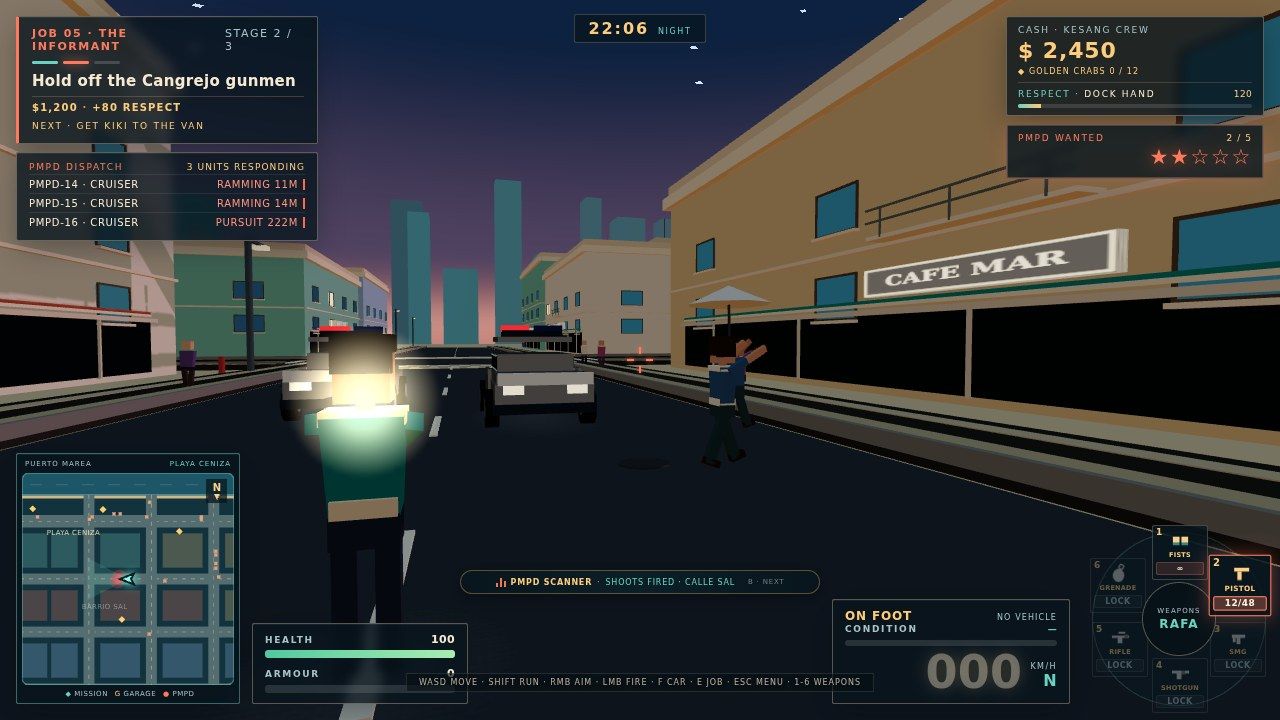
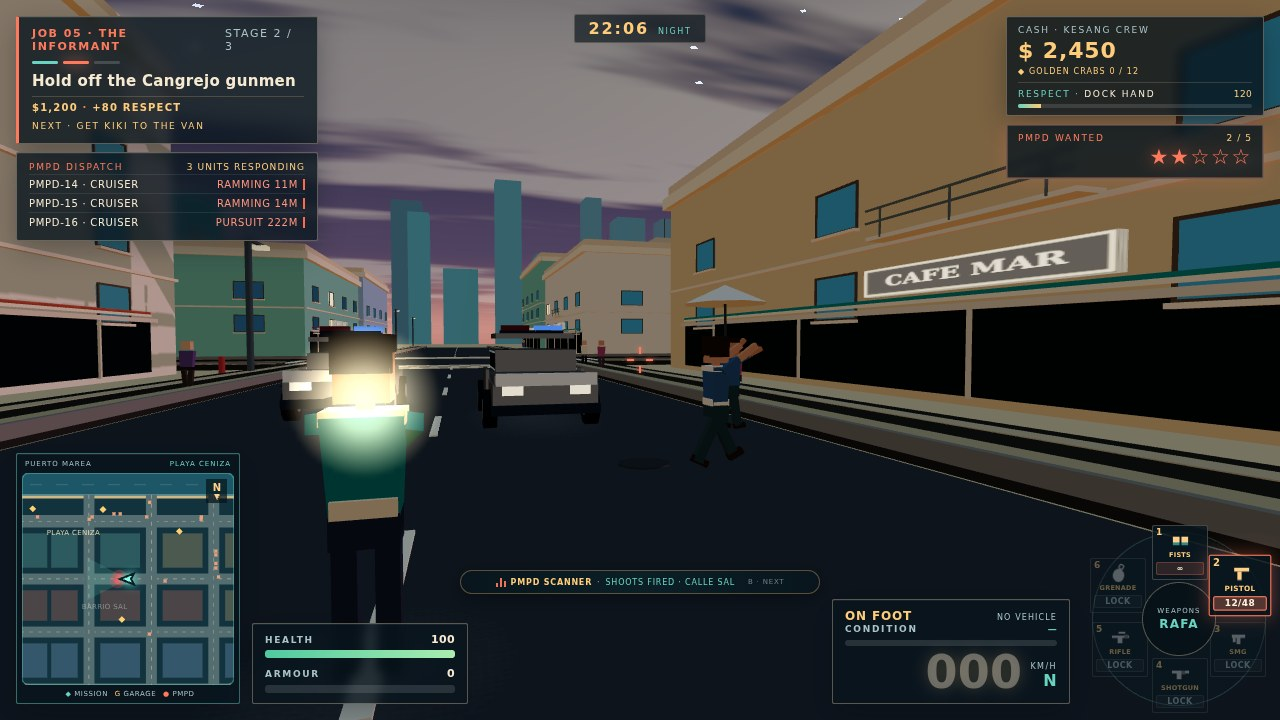
shot: round 4 cover framing, cloud deck sky and translucent pause menu

diff --git a/game/src/ui/screenshots.js b/game/src/ui/screenshots.js
@@ -307,17 +307,78 @@ function lockCamera(game, blended, shotSpeed = null, cameraOpts = null) {
   game.engine.snapCamera(game.player, cameraOpts ?? {});
 }
 
+function worldAtNdc(camera, ndcX, ndcY, distance) {
+  const direction = new THREE.Vector3(ndcX, ndcY, 0.5).unproject(camera).sub(camera.position).normalize();
+  return camera.position.clone().addScaledVector(direction, distance);
+}
+
+// The cover is the graded artifact, so the hero camera is fitted rather than guessed:
+// it starts on the tuned three-quarter boom and slides along it until the car covers
+// a readable share of the frame width.
+function fitHeroCamera(game, hero, forward, options = {}) {
+  const { left } = frameBasis(hero.heading);
+  const lateral = options.lateral ?? 3.0;
+  const height = options.height ?? 1.8;
+  const fov = options.fov ?? 34;
+  let distance = options.distance ?? 10;
+  let pose = null;
+  for (let step = 0; step < 5; step += 1) {
+    const position = hero.position.clone().addScaledVector(forward, -distance).addScaledVector(left, lateral).setY(height);
+    const lookAt = hero.position.clone().addScaledVector(forward, 16).addScaledVector(left, -2).setY(1.4);
+    const probe = game.engine.camera.clone();
+    probe.position.copy(position);
+    probe.lookAt(lookAt);
+    probe.fov = fov;
+    probe.updateProjectionMatrix();
+    probe.updateMatrixWorld(true);
+    const span = projectedSpan(probe, vehicleCorners(hero));
+    pose = {
+      position,
+      lookAt,
+      fov,
+      report: {
+        distance,
+        lateral,
+        height,
+        fov,
+        heroWidth: span ? Number(span.width.toFixed(3)) : null,
+        heroBounds: span ? {
+          minX: Number(span.minX.toFixed(2)),
+          maxX: Number(span.maxX.toFixed(2)),
+          minY: Number(span.minY.toFixed(2)),
+          maxY: Number(span.maxY.toFixed(2)),
+        } : null,
+      },
+    };
+    if (span && span.width > 0.40) { distance = Math.min(12.5, distance + 0.5); continue; }
+    if (!span || span.width < 0.22) { distance = Math.max(8, distance - 0.5); continue; }
+    break;
+  }
+  return pose;
+}
+
 async function stageChase(game) {
-  game.timeOfDay = 17.6;
+  game.timeOfDay = 17.95;
   game.engine.setTimeOfDay(game.timeOfDay);
+
+  // Keep the key light just above the waterline so the frame holds a long warm band.
+  const elevation = THREE.MathUtils.degToRad(9);
+  const azimuth = -2.72;
+  const horizontal = Math.sqrt(Math.max(0.001, 1 - Math.sin(elevation) * Math.sin(elevation)));
+  game.engine.sunDirection = new THREE.Vector3(Math.cos(azimuth) * horizontal, Math.sin(elevation), Math.sin(azimuth) * horizontal).normalize();
+  game.engine.skyUniforms.sunDirection.value.copy(game.engine.sunDirection);
+  game.engine.skyUniforms.night.value = 0;
+
+  // Warm sky bounce, so the shaded flank of the hero still reads on the dark asphalt.
+  game.engine.hemi.intensity = 0.5;
+  game.engine.hemi.color.set('#ffd3a6');
+  game.engine.hemi.groundColor.set('#6b6250');
+  game.engine.renderer.toneMappingExposure = 1.02;
 
   const hero = game.heroVehicle;
   const heading = Math.PI / 2;
   const { forward, left } = frameBasis(heading);
-  const heroPos = new THREE.Vector3(-74, 0, -22);
-  const heroRoof = 1.5 + 0.6 * (hero?.spec?.cabin ?? 0.6);
-  const wheelbase = (hero?.spec?.length ?? 4.5) * 0.32;
-  const rearAxle = heroPos.clone().addScaledVector(forward, -wheelbase);
+  const heroPos = new THREE.Vector3(-74, 0, -21.3);
 
   game.shotSpeed = 0;
   if (hero) {
@@ -346,9 +407,11 @@ async function stageChase(game) {
   game.hud.setRadio('PMPD SCANNER', 'DISPATCH 10-42');
   await settle(game, 60);
 
+  // Freeze the pursuit: every unit is placed by hand after this point.
   game.police.dispatch = () => {};
   game.police.cooldowns.roadblock = 9999;
-  clearTrafficNear(game, heroPos, 36);
+  game.police.update = () => {};
+  clearTrafficNear(game, heroPos, 46);
 
   if (hero) {
     hero.position.copy(heroPos);
@@ -358,9 +421,6 @@ async function stageChase(game) {
     hero.mesh.position.copy(hero.position);
     hero.mesh.rotation.y = hero.heading;
     game.player.position.copy(hero.position);
-  }
-
-  if (hero) {
     const baseUpdate = hero.update.bind(hero);
     hero.update = (dt) => {
       baseUpdate(dt);
@@ -368,15 +428,15 @@ async function stageChase(game) {
     };
   }
 
-  const cruisers = game.police.units.filter((u) => u.kind === 'CRUISER' && u.vehicle);
+  const cruisers = game.police.units.filter((unit) => unit.kind === 'CRUISER' && unit.vehicle);
   cruisers.forEach((unit, index) => {
     const vehicle = unit.vehicle;
     if (!vehicle) return;
     if (index < 2) {
-      const behind = 3.5 + index * 0.8;
-      const leftOffset = index === 0 ? 4 : -4;
-      vehicle.position.copy(heroPos).addScaledVector(forward, -behind).addScaledVector(left, leftOffset);
-      vehicle.heading = Math.atan2(heroPos.x - vehicle.position.x, heroPos.z - vehicle.position.z);
+      const ahead = index === 0 ? 9.5 : 13.2;
+      const side = index === 0 ? 3.6 : -5.0;
+      vehicle.position.copy(heroPos).addScaledVector(forward, ahead).addScaledVector(left, side);
+      vehicle.heading = heading + (index === 0 ? 0.55 : -0.2);
       vehicle.speed = 0;
       vehicle.maxSpeed = 0;
       vehicle.parked = false;
@@ -386,51 +446,68 @@ async function stageChase(game) {
       unit.position = vehicle.position;
       unit.tactic = 'CHASE';
     } else {
-      vehicle.position.set(heroPos.x - 210 - index * 12, 0, heroPos.z + 8);
+      vehicle.position.set(heroPos.x + 210 + index * 12, 0, heroPos.z + 8);
       vehicle.speed = 0;
       vehicle.maxSpeed = 0;
       vehicle.mesh.position.copy(vehicle.position);
       unit.position = vehicle.position;
       unit.tactic = 'STANDBY';
     }
+    vehicle.update = () => {};
   });
 
-  const heli = game.police.units.find((u) => u.kind === 'HELICOPTER' && !u.dead);
+  const heli = game.police.units.find((unit) => unit.kind === 'HELICOPTER' && !unit.dead);
   if (heli) {
     heli.kind = 'STATIC';
-    heli.mesh.position.copy(heroPos).addScaledVector(forward, 18).addScaledVector(left, -12).setY(18);
-    heli.position = heli.mesh.position;
-    if (heli.spotlight) {
-      heli.spotlight.position.copy(heli.mesh.position);
-      heli.spotlight.target.position.copy(heroPos).addScaledVector(forward, 25).setY(0.5);
-      heli.spotlight.intensity = 42;
-    }
+    heli.update = () => {};
+    if (heli.spotlight) heli.spotlight.intensity = 0;
     if (heli.spotlightCone) heli.spotlightCone.visible = false;
-    ensureGroundSpotlightPool(game, heroPos.clone().addScaledVector(forward, 25).setY(0.03));
   }
 
-  const cameraPos = heroPos.clone().addScaledVector(forward, -11).addScaledVector(left, 1.4).setY(1.55);
-  const lookAt = heroPos.clone().setY(heroRoof + 2.47);
+  const pose = hero ? fitHeroCamera(game, hero, forward) : null;
   game.shotSpeed = 0;
   game.shotCamera = null;
   lockCamera(game, true, 0, {});
-  pinCamera(game, cameraPos, lookAt, 80);
-  verifyShotCamera(game, cameraPos, hero ? vehicleCorners(hero) : [], 'chase');
+  if (pose) pinCamera(game, pose.position, pose.lookAt, pose.fov);
+  game.engine.camera.updateMatrixWorld(true);
 
-  const carSpan = projectedSpan(game.engine.camera, hero ? vehicleCorners(hero) : []);
-  const nearby = countNearbyObjects(game, cameraPos, 6);
-  const wallFraction = largestBuildingFaceFraction(game.engine.camera);
+  if (heli) {
+    const heliPos = worldAtNdc(game.engine.camera, -0.36, 0.42, 42);
+    heli.mesh.position.copy(heliPos);
+    heli.position.copy(heliPos);
+    if (heli.spotlight) {
+      heli.spotlight.position.copy(heliPos);
+      heli.spotlight.target.position.copy(heroPos).setY(0.5);
+      heli.spotlight.target.updateMatrixWorld();
+    }
+  }
+
+  const camera = game.engine.camera;
+  const cameraPos = camera.position;
+  const heroSpan = hero ? projectedSpan(camera, vehicleCorners(hero)) : null;
+  const cruiserSpans = cruisers.slice(0, 2).filter((unit) => unit.vehicle).map((unit) => projectedSpan(camera, vehicleCorners(unit.vehicle)));
+  const heliSpan = heli ? projectedSpan(camera, meshSilhouettePoints(heli.mesh)) : null;
+  const nearestToCamera = Math.min(...game.traffic.vehicles
+    .filter((vehicle) => vehicle !== hero)
+    .map((vehicle) => cameraPos.distanceTo(vehicle.position)));
+  const wallFraction = largestBuildingFaceFraction(camera);
   const report = {
-    cameraToCar: Number(cameraPos.distanceTo(heroPos).toFixed(2)),
-    cameraToRearAxle: Number(cameraPos.distanceTo(rearAxle).toFixed(2)),
-    nearby,
+    camera: cameraPos.toArray().map((value) => Number(value.toFixed(2))),
+    fit: pose ? pose.report : null,
+    heroWidthOfFrame: heroSpan ? Number(heroSpan.width.toFixed(3)) : null,
+    hero: heroSpan ? { minX: Number(heroSpan.minX.toFixed(2)), maxX: Number(heroSpan.maxX.toFixed(2)), minY: Number(heroSpan.minY.toFixed(2)), maxY: Number(heroSpan.maxY.toFixed(2)) } : null,
+    cruisers: cruiserSpans.map((span) => (span ? { minX: Number(span.minX.toFixed(2)), maxX: Number(span.maxX.toFixed(2)), minY: Number(span.minY.toFixed(2)), maxY: Number(span.maxY.toFixed(2)) } : null)),
+    heli: heliSpan ? { minX: Number(heliSpan.minX.toFixed(2)), maxX: Number(heliSpan.maxX.toFixed(2)), minY: Number(heliSpan.minY.toFixed(2)), maxY: Number(heliSpan.maxY.toFixed(2)) } : null,
+    nearestVehicleToCamera: Number(nearestToCamera.toFixed(2)),
     largestBuildingFaceOfFrame: Number(wallFraction.toFixed(3)),
-    carFrameBounds: carSpan ? { minX: Number(carSpan.minX.toFixed(2)), maxX: Number(carSpan.maxX.toFixed(2)), minY: Number(carSpan.minY.toFixed(2)), maxY: Number(carSpan.maxY.toFixed(2)) } : null,
   };
   console.info('[shot:chase]', JSON.stringify(report));
-  console.assert(nearby.parked === 0 && nearby.props === 0 && nearby.moving === 0, 'chase camera must be clear of parked vehicles and props within 6m');
-  console.assert(wallFraction < 0.45, 'chase largest building face must stay under 45% of frame width');
-  console.assert(carSpan && carSpan.minX > -1 && carSpan.maxX < 1 && carSpan.minY > -1 && carSpan.maxY < 1, 'chase hero car must sit fully inside the frame');
+  console.assert(heroSpan && heroSpan.width >= 0.22 && heroSpan.width <= 0.40, 'chase hero car must cover 22-40% of the frame width');
+  console.assert(heroSpan && heroSpan.minX > -0.92 && heroSpan.maxX < 0.92 && heroSpan.minY > -0.74 && heroSpan.maxY < 0.85, 'chase hero car must sit whole inside the frame above the bottom bar');
+  console.assert(cruiserSpans.length === 2 && cruiserSpans.every((span) => span && span.minX > -1 && span.maxX < 1 && span.minY > -1 && span.maxY < 1), 'both chase cruisers must be whole inside the frame');
+  console.assert(heliSpan && heliSpan.minY >= 0.3 && heliSpan.maxY <= 0.95, 'chase helicopter must sit in the upper third of the frame');
+  console.assert(nearestToCamera >= 6, 'chase camera must be clear of parked vehicles within 6m');
+  console.assert(wallFraction < 0.65, 'chase largest building face must stay under 65% of frame width');
   return true;
 }
 
@@ -628,7 +705,7 @@ async function stageDrive(game) {
 }
 
 async function stageMenu(game) {
-  game.timeOfDay = 17.5;
+  game.timeOfDay = 17.7;
   game.engine.setTimeOfDay(game.timeOfDay);
   game.wanted.setStars(0, game.player.position);
   game.police.clear();
@@ -658,7 +735,7 @@ async function stageMenu(game) {
   game.player.facing = heading;
   game.player.mesh.rotation.y = heading;
 
-  const cameraPos = carPos.clone().addScaledVector(forward, -12).addScaledVector(left, 3).setY(4);
+  const cameraPos = carPos.clone().addScaledVector(forward, -12).addScaledVector(left, 3).setY(3.4);
   const lookAt = carPos.clone().addScaledVector(forward, 30).addScaledVector(left, 3).setY(1.2);
 
   for (const ped of game.pedestrians.peds) {

diff --git a/game/src/core/engine.js b/game/src/core/engine.js
@@ -25,6 +25,28 @@ const SKY_FRAGMENT = `
     return fract(sin(dot(p, vec2(127.1, 311.7))) * 43758.5453123);
   }
 
+  float valueNoise(vec2 p) {
+    vec2 cell = floor(p);
+    vec2 f = fract(p);
+    f = f * f * (3.0 - 2.0 * f);
+    float a = hash21(cell);
+    float b = hash21(cell + vec2(1.0, 0.0));
+    float c = hash21(cell + vec2(0.0, 1.0));
+    float d = hash21(cell + vec2(1.0, 1.0));
+    return mix(mix(a, b, f.x), mix(c, d, f.x), f.y);
+  }
+
+  float fbm(vec2 p) {
+    float total = 0.0;
+    float amplitude = 0.5;
+    for (int i = 0; i < 4; i++) {
+      total += amplitude * valueNoise(p);
+      p *= 2.07;
+      amplitude *= 0.5;
+    }
+    return total;
+  }
+
   void main() {
     vec3 direction = normalize(vDirection);
     float h = clamp(direction.y * 0.5 + 0.5, 0.0, 1.0);
@@ -41,6 +63,21 @@ const SKY_FRAGMENT = `
     float halo = pow(max(sunDot, 0.0), 320.0);
     color += vec3(1.0, 0.82, 0.58) * disc * (0.9 - night * 0.3);
     color += vec3(1.0, 0.54, 0.28) * halo * 0.32 * (1.0 - night * 0.5);
+
+    // Thin, wind-stretched clouds: a warm underlit deck low in the sky while the sun is up.
+    if (direction.y > 0.0) {
+      vec2 streak = direction.xz / (direction.y + 0.16);
+      float band = fbm(streak * vec2(2.4, 0.55) + vec2(6.3, 1.7));
+      float wisp = fbm(streak * vec2(4.6, 0.9) + vec2(21.0, 9.0));
+      float density = smoothstep(0.45, 0.62, band * 0.78 + wisp * 0.46);
+      float deck = smoothstep(0.006, 0.04, direction.y) * (1.0 - smoothstep(0.38, 0.70, direction.y));
+      float lighting = clamp(sunDot * 0.55 + 0.45, 0.0, 1.0);
+      vec3 warmCloud = mix(vec3(0.52, 0.38, 0.52), vec3(1.0, 0.78, 0.55), lighting);
+      vec3 litEdge = vec3(1.0, 0.93, 0.80) * (0.55 + 0.45 * lighting);
+      vec3 cloudColor = mix(warmCloud, litEdge, smoothstep(0.35, 0.95, density) * 0.7);
+      float cloudAlpha = density * deck * (0.80 - night * 0.5);
+      color = mix(color, cloudColor, cloudAlpha);
+    }
 
     // Stars and a low city glow only appear once the key light has set.
     vec2 starCell = floor(direction.xy * 320.0 + direction.z * 13.0);

diff --git a/game/src/ui/menus.js b/game/src/ui/menus.js
@@ -10,7 +10,7 @@ const TABS = ['MAP', 'STORY', 'STATS', 'CREW', 'CONTROLS', 'SAVE'];
 
 const MARKUP = `
 <style>
-#pause-menu { width: min(1180px, 94vw); max-height: 90vh; background: linear-gradient(160deg, rgba(8,22,30,0.98), rgba(5,14,20,0.98)); }
+#pause-menu { width: min(1180px, 94vw); max-height: 90vh; background: linear-gradient(160deg, rgba(8,22,30,0.88), rgba(5,14,20,0.90)); }
 #pause-menu .pause-top { align-items: center; gap: 14px; padding: 12px 18px 11px; background: linear-gradient(90deg, rgba(255,204,121,0.08), transparent 38%); }
 #pause-menu .pause-brand { min-width: 190px; display: flex; flex-direction: column; gap: 2px; }
 #pause-menu .pause-wordmark { font-family: Georgia, 'Times New Roman', serif; font-size: 23px; font-weight: 700; letter-spacing: 0.12em; color: var(--gold); text-shadow: 0 2px 14px rgba(255,190,90,0.3); white-space: nowrap; }

diff --git a/game/src/boot.js b/game/src/boot.js
@@ -83,7 +83,9 @@ export class MareaRojaGame {
     });
     this.pedestrians.populate(82, SPAWN_POINTS.onFoot);
     this.state.pedestrians = this.pedestrians.peds;
-    this.heroVehicle = this.traffic.parked.find((vehicle) => vehicle.hero) ?? this.traffic.parked[0];
+    this.heroVehicle = this.traffic.parked.find((vehicle) => vehicle.hero)
+      ?? this.traffic.parked.find((vehicle) => vehicle.type === 'sprint')
+      ?? this.traffic.parked[0];
 
     this.lastWantedStars = 0;
     this.wanted = new WantedSystem({

diff --git a/game/src/world/traffic.js b/game/src/world/traffic.js
@@ -186,6 +186,7 @@ export class TrafficSystem {
     vehicle.body.castShadow = true;
     for (const wheel of vehicle.wheels) wheel.traverse((part) => { if (part.isMesh) part.castShadow = true; });
     vehicle.aiControlled = Boolean(spec.parked) === false;
+    vehicle.hero = Boolean(spec.hero);
     vehicle.aiSeed = this.rand() * 10;
     this.scene.add(vehicle.mesh);
     this.vehicles.push(vehicle);

diff --git a/game/styles/hud.css b/game/styles/hud.css
@@ -676,7 +676,7 @@ html, body {
   max-height: 86vh;
   display: flex;
   flex-direction: column;
-  background: rgba(5, 15, 22, 0.96);
+  background: rgba(5, 15, 22, 0.90);
   border: 1px solid rgba(255, 227, 187, 0.28);
   box-shadow: 0 30px 100px rgba(0, 0, 0, 0.68);
 }
